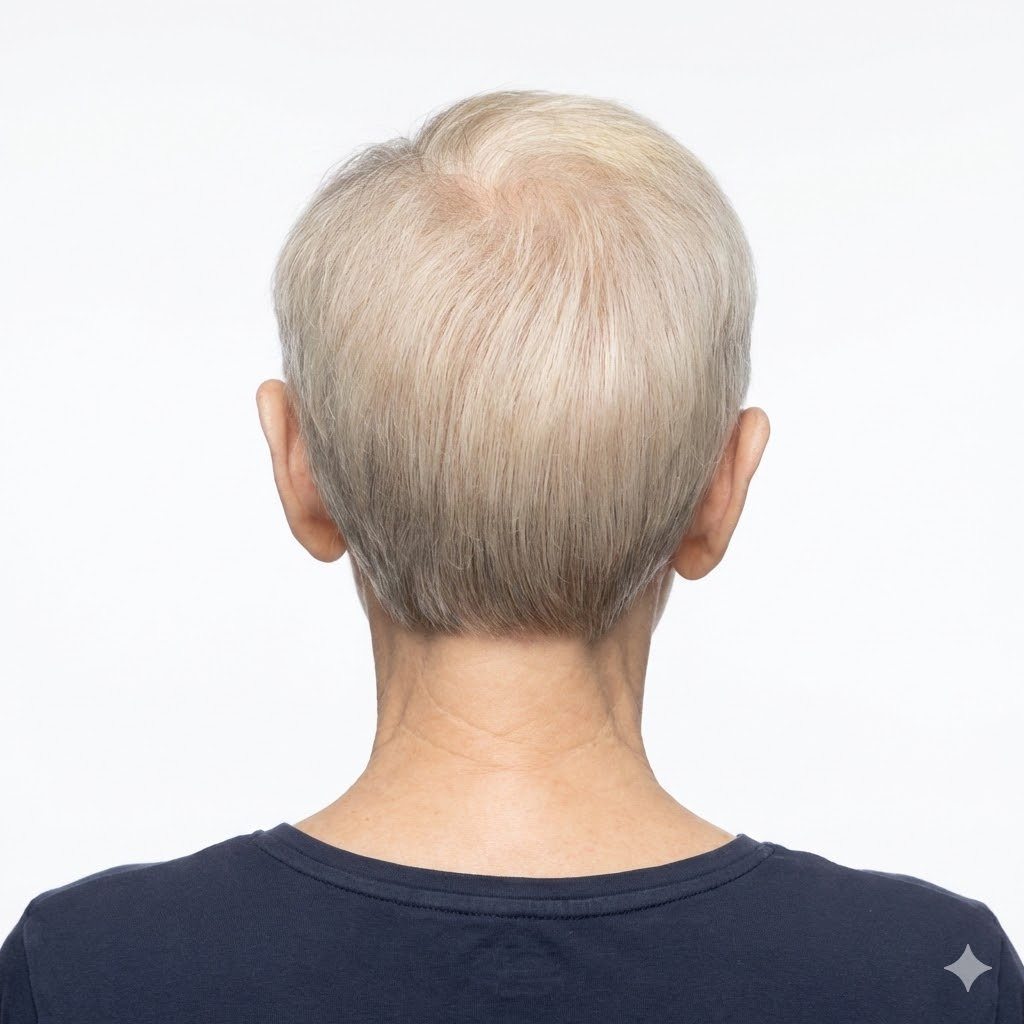
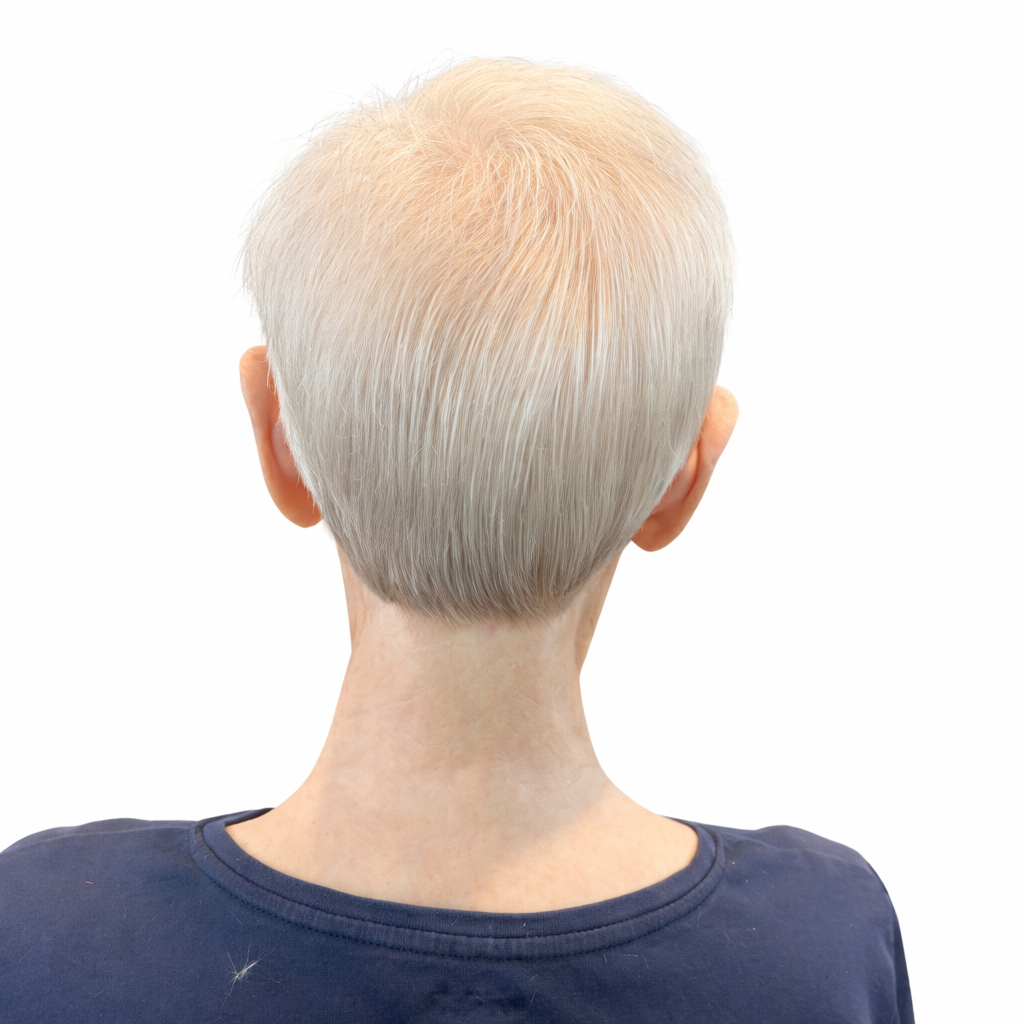
Changes

diff --git a/src/components/sections/Portfolio.tsx b/src/components/sections/Portfolio.tsx
@@ -20,7 +20,7 @@ const fallbackImages = [
   { id: "2", category: "Color", title: "Golden Waves", image_url: portfolioColor1 },
   { id: "3", category: "Styling", title: "Casual Chic", image_url: portfolioStyling2 },
   { id: "4", category: "Styling", title: "Soft Curls", image_url: portfolioStyling3 },
-  { id: "5", category: "Cuts", title: "Platinum Pixie", image_url: portfolioCuts1, objectPosition: "center 20%" },
+  { id: "5", category: "Cuts", title: "Platinum Pixie", image_url: portfolioCuts1 },
   { id: "6", category: "Cuts", title: "Distinguished Gray", image_url: portfolioCuts2 },
   { id: "7", category: "Cuts", title: "Textured Curls", image_url: portfolioCuts3 },
   { id: "8", category: "Cuts", title: "Clean Fade", image_url: portfolioCuts4 },
